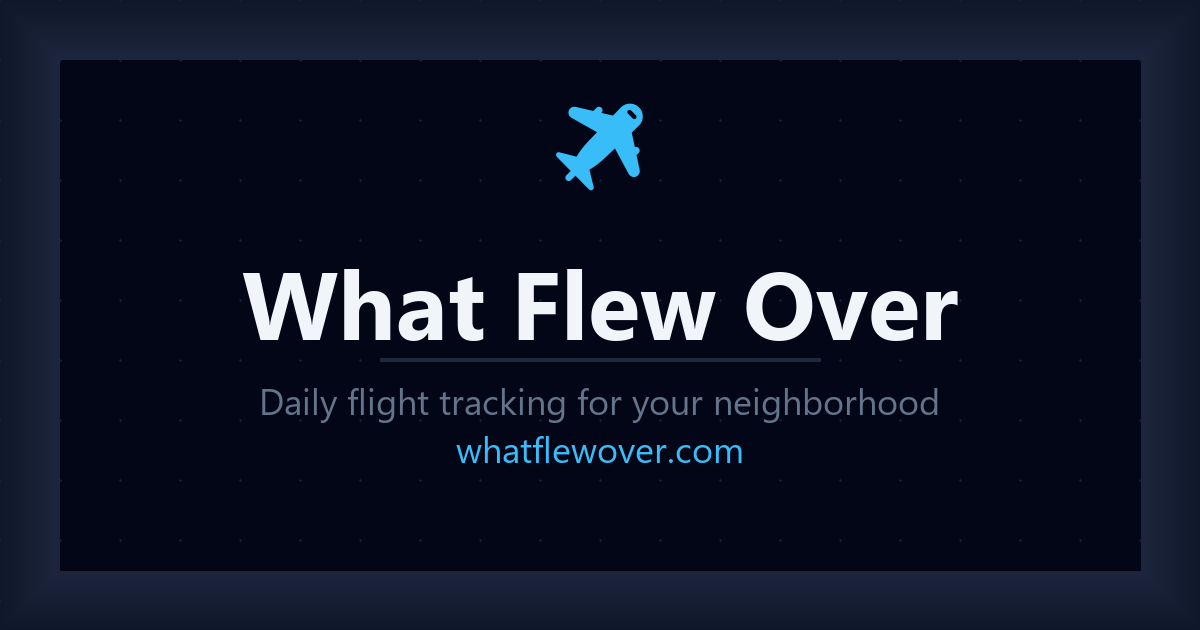
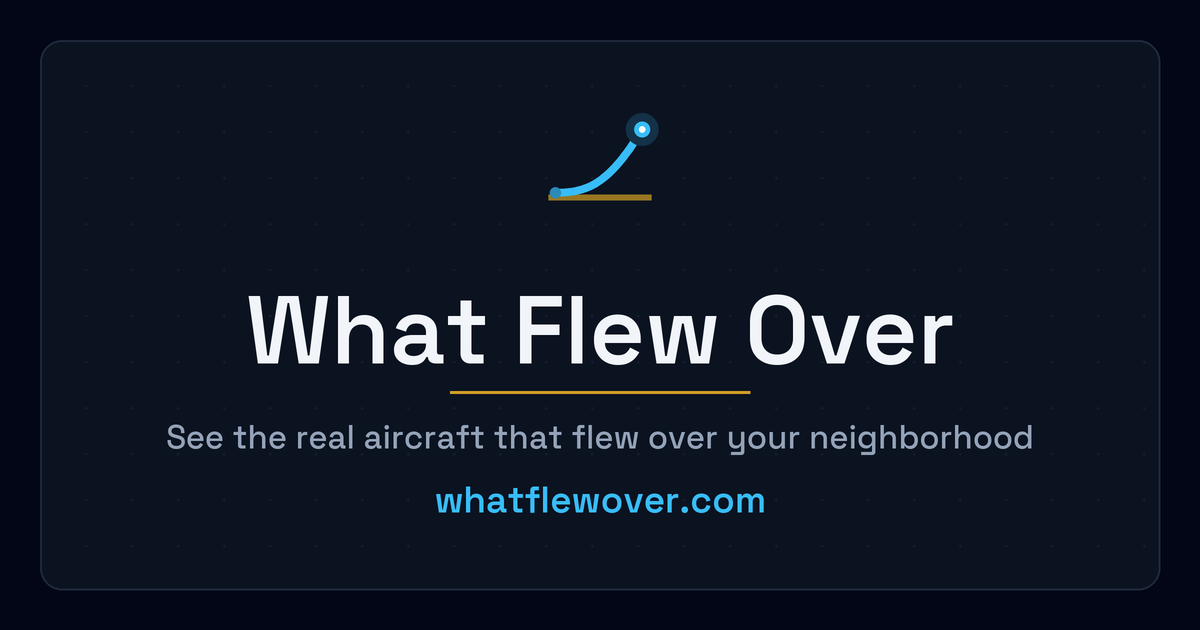
Update OG/social preview to Track & Fix brand
Replace the old emoji-and-generic-font preview.png with a 1200x630 image built
from the real brand system (Track & Fix mark + Space Grotesk wordmark), generated
by adsb_digest/make_preview.py. Bump og:image/twitter:image to ?v=2 so scrapers
re-fetch the new asset.

Changed region(s): [[0.0, 0.0302, 0.9867, 0.9952], [0.1233, 0.4222, 0.8633, 0.8143], [0.4317, 0.1508, 0.555, 0.3317]]

diff --git a/index.html b/index.html
@@ -11,11 +11,11 @@
   <meta property="og:url"          content="https://whatflewover.com/">
   <meta property="og:title"        content="What Flew Over">
   <meta property="og:description"  content="A daily email digest of real aircraft that flew over your neighborhood — personalized to your zip code.">
-  <meta property="og:image"        content="https://whatflewover.com/preview.png">
+  <meta property="og:image"        content="https://whatflewover.com/preview.png?v=2">
   <meta property="og:image:width"  content="1200">
   <meta property="og:image:height" content="630">
   <meta name="twitter:card"        content="summary_large_image">
-  <meta name="twitter:image"       content="https://whatflewover.com/preview.png">
+  <meta name="twitter:image"       content="https://whatflewover.com/preview.png?v=2">
   <style>
     * { box-sizing: border-box; margin: 0; padding: 0; }
 